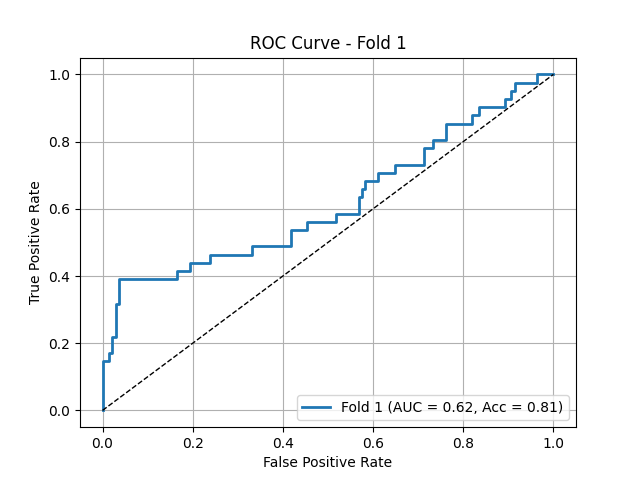
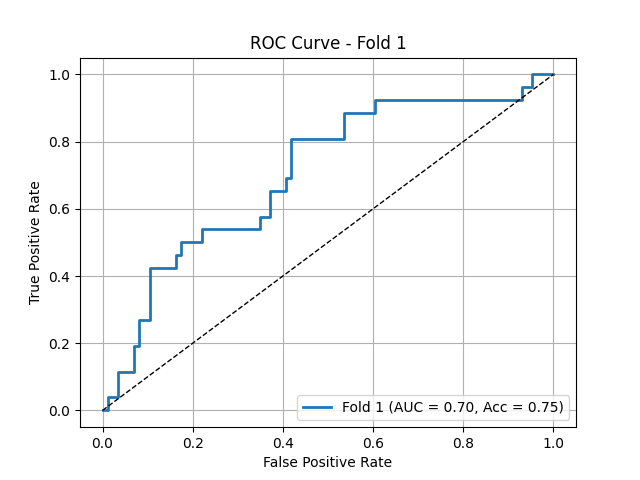
lr is 1e6

diff --git a/train_onlytorch.py b/train_onlytorch.py
@@ -70,7 +70,7 @@ for fold in range(k_fold):
                                  sdf_model_path= r"checkpoints\deeplabv3_sdf_randomcrop\model_20250711_201243\epoch_84",
                                  radiomics= False).to(device)
 
-    optimizer = torch.optim.Adam(model.parameters(), lr=1e-5, weight_decay=1e-5)
+    optimizer = torch.optim.Adam(model.parameters(), lr=1e-6, weight_decay=1e-5)
     best_val_auc = -1
     best_combined_score = -1 
     best_model_state = None 
